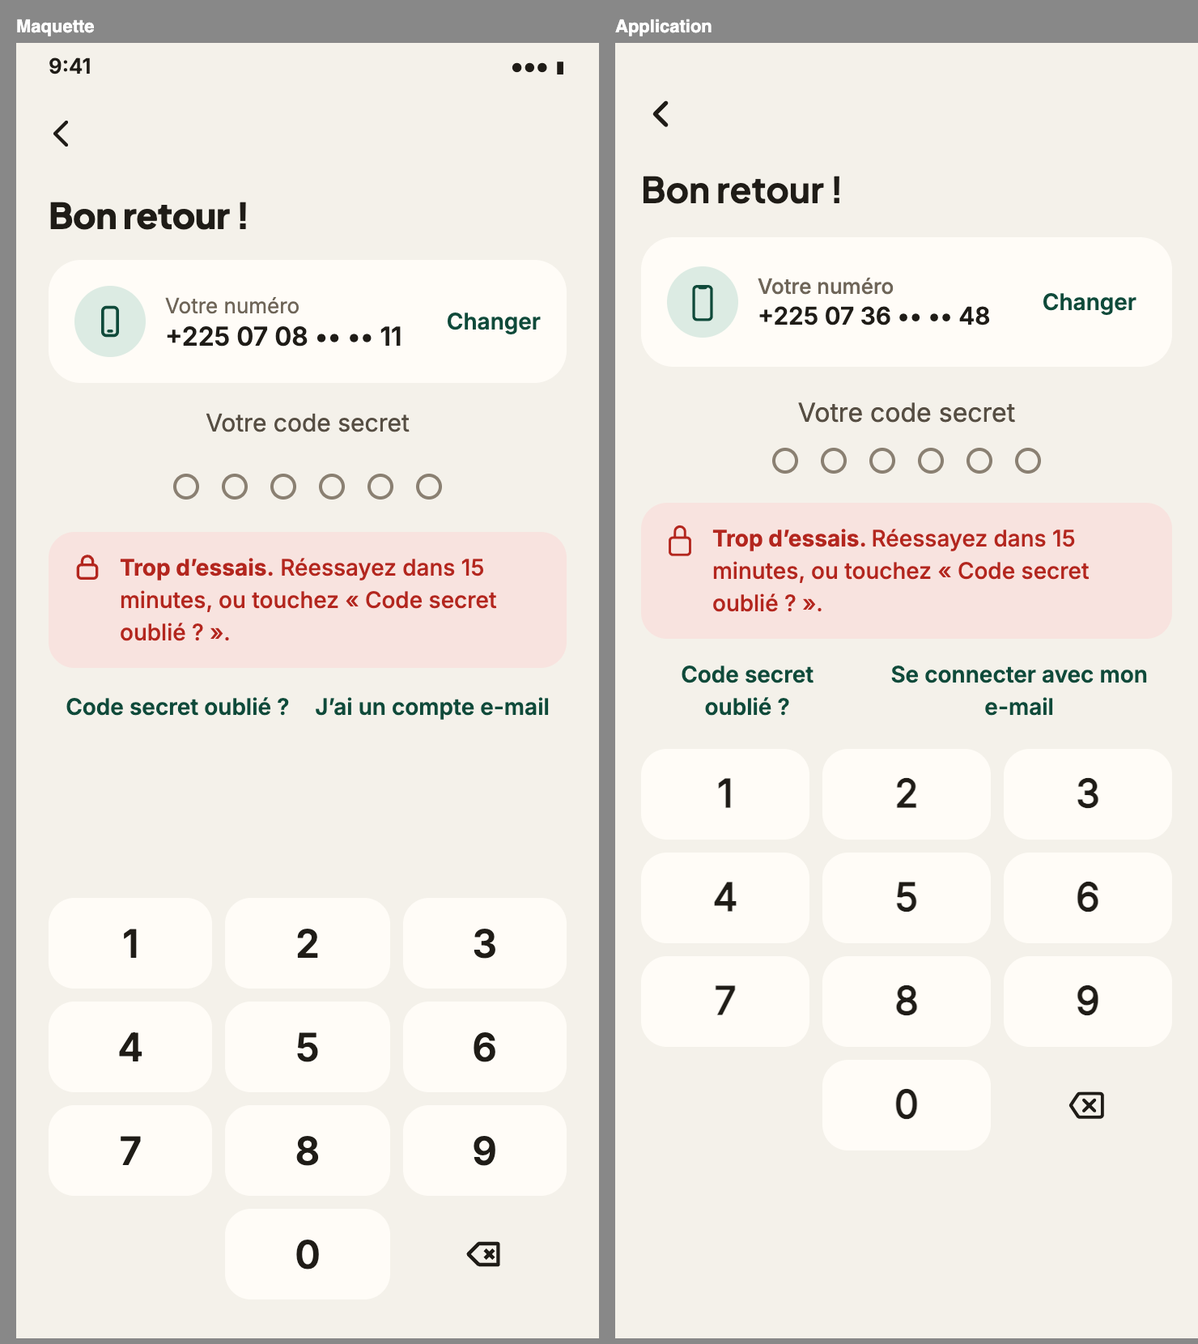
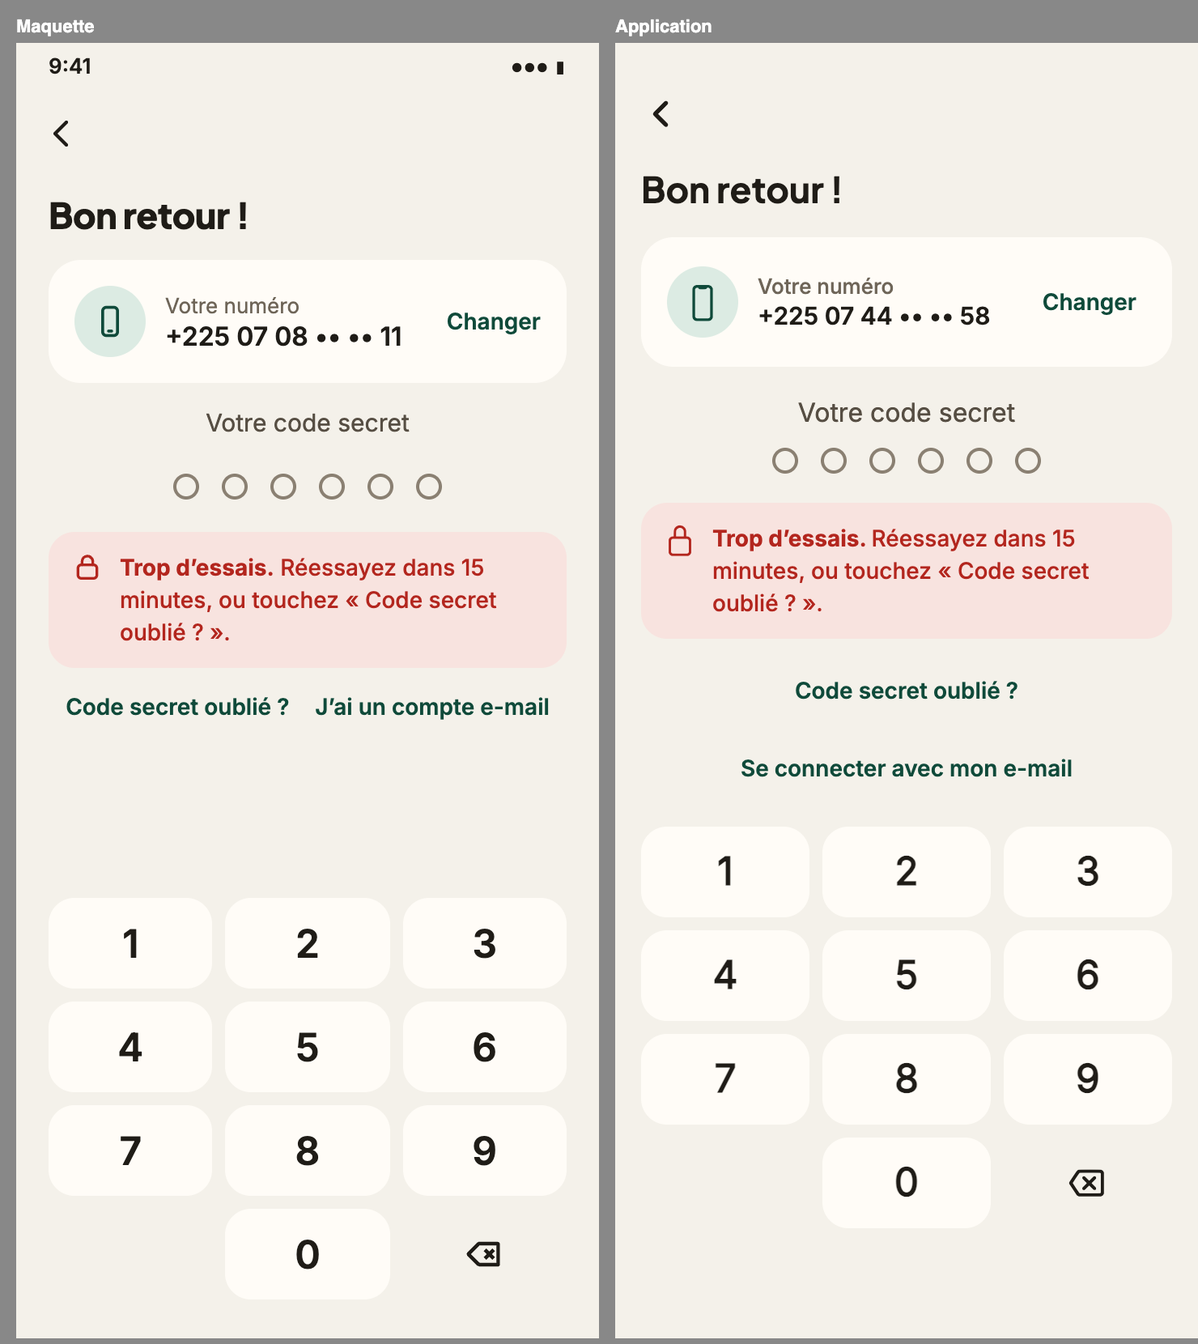
Connexion par téléphone — trois écarts tranchés par le fondateur (23/10)
- Bienvenue : « S’inscrire avec mon e-mail » en lien vert (nouvelle variante `link`
  du bouton, 48 dp) ; démonstration et « sur ce téléphone » inchangés.
- « Bon retour ! » / « Se connecter » : « Code secret oublié ? » et « Se connecter avec
  mon e-mail » l'un sous l'autre, centrés, chacun sur une ligne.
- Écran du numéro en mode connexion : « Se connecter », « Entrez le numéro de votre
  compte, puis votre code secret. », « Continuer » ; sans WhatsApp. 3 clés FR + EN,
  aucune supprimée.

diff --git a/dinerox/e2e/phone-auth.js b/dinerox/e2e/phone-auth.js
@@ -86,6 +86,12 @@ const lookup = async (body) => (await (await fetch(`${AUTH}/accounts:lookup`, { 
   const order = await Promise.all(['S’inscrire avec mon numéro', 'Se connecter', 'S’inscrire avec mon e-mail', 'Tester sans données (démonstration)'].map((n) => A.btn(n).first().boundingBox()));
   ok(order.every(Boolean) && order.every((b, i) => i === 0 || b.y > order[i - 1].y), 'panneau : « S’inscrire avec mon numéro », « Se connecter », « S’inscrire avec mon e-mail », puis démonstration');
   ok(!welcome.includes('Continuer avec mon numéro') && !welcome.includes('J’ai un compte e-mail'), 'anciens libellés absents de l’accueil');
+  // Écart 1 (fondateur, 23/10) : le lien e-mail est VERT (couleur de la marque), la démonstration garde son style d'origine.
+  const colorOf = (loc) => loc.evaluate((el) => getComputedStyle(el.querySelector('div[dir]') || el).color);
+  const bgOf = (loc) => loc.evaluate((el) => getComputedStyle(el).backgroundColor);
+  const [mailColor, demoColor, brand] = await Promise.all([colorOf(A.btn('S’inscrire avec mon e-mail').first()), colorOf(A.btn('Tester sans données (démonstration)').first()), bgOf(A.btn('S’inscrire avec mon numéro').first())]);
+  const mailH = (await A.btn('S’inscrire avec mon e-mail').first().boundingBox()).height;
+  ok(mailColor === brand && demoColor !== brand && mailH >= 48, `lien « S’inscrire avec mon e-mail » vert (${mailColor} = ${brand}), démonstration inchangée (${demoColor}), ${Math.round(mailH)} px`);
   await A.shot('01-accueil');
   await A.btn('S’inscrire avec mon numéro').click(); await A.see('Votre numéro de téléphone');
   ok(!!(await A.btn('Se connecter').first().boundingBox()) && !(await A.text()).includes('J’ai déjà un compte'), 'inscription : « J’ai déjà un compte » devient « Se connecter »');
@@ -125,11 +131,14 @@ const lookup = async (body) => (await (await fetch(`${AUTH}/accounts:lookup`, { 
   await A.signOut();
   await A.btn('Se connecter').click(); await A.see('Bon retour !');
   ok((await A.text()).includes(`+225 ${local1.slice(0, 2)} ${local1.slice(2, 4)} •• •• ${local1.slice(8)}`), 'numéro retenu, affiché masqué');
-  // Retouches (22/10) : numéro masqué sur UNE ligne ; « Code secret oublié ? » et « Se connecter avec mon e-mail » (§5ter) côte à côte.
+  // Retouche (22/10) : numéro masqué sur UNE ligne.
   const masked = await A.p.getByText(`+225 ${local1.slice(0, 2)}`, { exact: false }).filter({ visible: true }).first().boundingBox();
   ok(!!masked && masked.height <= 26, `numéro masqué sur une ligne (${masked ? Math.round(masked.height) : '?'} px)`);
+  // Écart 2 (fondateur, 23/10) : les deux liens l'un SOUS l'autre, centrés, chacun sur une ligne, 48 dp.
   const [forgotBox, mailBox] = await Promise.all([A.btn('Code secret oublié ?').first().boundingBox(), A.btn('Se connecter avec mon e-mail').first().boundingBox()]);
-  ok(!!forgotBox && !!mailBox && Math.abs(forgotBox.y - mailBox.y) < 4 && forgotBox.x < mailBox.x, 'liens « Code secret oublié ? » et « Se connecter avec mon e-mail » côte à côte');
+  const cx = (b) => b.x + b.width / 2;
+  ok(!!forgotBox && !!mailBox && mailBox.y >= forgotBox.y + forgotBox.height - 1 && Math.abs(cx(forgotBox) - cx(mailBox)) < 3 && Math.abs(cx(mailBox) - A.p.viewportSize().width / 2) < 3, 'liens « Code secret oublié ? » puis « Se connecter avec mon e-mail » l’un sous l’autre, centrés');
+  ok(!!forgotBox && !!mailBox && [forgotBox, mailBox].every((b) => b.height >= 48 && b.height < 56), `chaque lien sur une ligne, 48 dp (${forgotBox && Math.round(forgotBox.height)} et ${mailBox && Math.round(mailBox.height)} px)`);
   await A.shot('05-connexion');
   await A.keypad('000000');
   ok((await A.text()).includes('Code secret incorrect.'), 'mauvais code secret : refusé');
@@ -152,9 +161,12 @@ const lookup = async (body) => (await (await fetch(`${AUTH}/accounts:lookup`, { 
   await B.btn('Se connecter').click(); await B.see('Numéro de téléphone');
   // Numéro pas encore connu sur ce téléphone : titre « Se connecter », lien vers la connexion e-mail (§5ter).
   ok(!(await B.text()).includes('Bon retour') && !!(await B.p.getByRole('heading', { name: 'Se connecter', exact: true }).filter({ visible: true }).first().boundingBox()) && !!(await B.btn('Se connecter avec mon e-mail').first().boundingBox()), 'numéro inconnu sur ce téléphone : titre « Se connecter », lien « Se connecter avec mon e-mail »');
+  // Écart 3 (fondateur, 23/10) : écran du numéro en mode connexion — texte et bouton dédiés, sans WhatsApp.
+  const signinText = await B.text();
+  ok(signinText.includes('Entrez le numéro de votre compte, puis votre code secret.') && !signinText.includes('WhatsApp') && !!(await B.btn('Continuer').first().boundingBox()) && !signinText.includes('Continuer avec mon numéro'), 'connexion, écran du numéro : « Entrez le numéro de votre compte… », bouton « Continuer », aucune mention de WhatsApp');
   await B.shot('05b-connexion-numero');
   await B.p.getByLabel('Numéro de téléphone', { exact: true }).fill(local1);
-  await B.btn('Continuer avec mon numéro').click(); await B.see('Votre code secret');
+  await B.btn('Continuer').click(); await B.see('Votre code secret');
   ok(!(await B.text()).includes('Bon retour') && !!(await B.p.getByRole('heading', { name: 'Se connecter', exact: true }).filter({ visible: true }).first().boundingBox()), 'code secret, numéro inconnu sur ce téléphone : titre « Se connecter »');
   await B.keypad(SECRET); await B.see('Nouveau téléphone');
   await B.shot('07-nouveau-telephone');
@@ -225,7 +237,7 @@ const lookup = async (body) => (await (await fetch(`${AUTH}/accounts:lookup`, { 
   const D = await open();
   await D.go('/phone?start=signin');
   await D.p.getByLabel('Numéro de téléphone', { exact: true }).fill(local2);
-  await D.btn('Continuer avec mon numéro').click(); await D.see('Votre code secret');
+  await D.btn('Continuer').click(); await D.see('Votre code secret');
   await D.btn('Code secret oublié ?').click(); await D.see('Code secret oublié ?');
   await D.btn('Recevoir le code').first().click(); await D.see('Entrez le code reçu');
   const resetCode = await lastCode(e164(local2));

diff --git a/dinerox/tests/phone-screens.test.ts b/dinerox/tests/phone-screens.test.ts
@@ -97,14 +97,12 @@ describe('écrans et parcours', () => {
     expect(read('src/app/(auth)/phone.tsx')).toMatch(/<PhoneFlow /);
     expect(read('src/app/settings/add-phone.tsx')).toMatch(/<PhoneFlow start="link"/);
   });
-  it('retouche (22/10) : « Bon retour ! » — numéro masqué sur UNE ligne, « Code secret oublié ? » et le lien e-mail côte à côte', () => {
+  it('retouche (22/10) : « Bon retour ! » — numéro masqué sur UNE ligne', () => {
     const f = read('src/features/phoneAuth/PhoneFlow.tsx');
     const s = f.slice(f.indexOf('function SignInStep'), f.indexOf('// ─── 6 · 7'));
     // Espaces insécables : le numéro ne se coupe jamais entre deux groupes.
     expect(s).toMatch(/oneLine\(maskPhone\(e164\)\)/);
     expect(f).toMatch(/const NBSP = String\.fromCharCode\(160\);\s*const oneLine = \(s: string\) => s\.replace\(\/ \/g, NBSP\)/);
-    expect(s).toMatch(/flexWrap: 'nowrap'/);
-    expect(s).not.toMatch(/flexWrap: 'wrap'/);
   });
   it('les écrans de saisie sont dans le contrôle des formulaires (règle 15)', () => {
     const audit = read('e2e/forms-audit.js');
@@ -152,13 +150,61 @@ describe('bienvenue d’origine rétablie, libellés clairs (fondateur, 23/10, D
     const num = f.slice(f.indexOf('function NumberStep'), f.indexOf('// ─── 3 · 9'));
     expect(num).toMatch(/label=\{t\('phone\.welcome\.signin'\)\} onPress=\{onSignIn\}/);
     // Connexion sans numéro connu : titre « Se connecter » et lien vers la connexion e-mail.
-    expect(num).toMatch(/mode === 'signin' \? t\('phone\.welcome\.signin'\) : t\('phone\.number\.title'\)/);
+    // (Le titre a ensuite sa propre clé, `phone.number.signinTitle` : voir « écarts tranchés », 3.)
+    expect(num).toMatch(/signin \? t\('phone\.number\.signinTitle'\) : t\('phone\.number\.title'\)/);
     expect(num).toMatch(/label=\{t\('phone\.signin\.withEmail'\)\} onPress=\{\(\) => router\.push\('\/sign-in'\)\}/);
     const s = f.slice(f.indexOf('function SignInStep'), f.indexOf('// ─── 6 · 7'));
     expect(s).toMatch(/known \? t\('phone\.signin\.title'\) : t\('phone\.welcome\.signin'\)/);
     expect(s).toMatch(/label=\{t\('phone\.signin\.withEmail'\)\} onPress=\{\(\) => router\.push\('\/sign-in'\)\}/);
     // « connu » = le numéro affiché est celui retenu sur CE téléphone.
     expect(f).toMatch(/known=\{!!remembered && remembered === e164\}/);
+  });
+});
+
+describe('écarts tranchés par le fondateur (23/10, après §5ter)', () => {
+  const OPEN = '{isFirebaseConfigured ? (';
+  const CLOSE = ') : (';
+  it('1. bienvenue : « S’inscrire avec mon e-mail » en lien VERT (variante `link`), démonstration et « sur ce téléphone » inchangés', () => {
+    const w = read('src/app/(auth)/welcome.tsx');
+    const panel = w.slice(w.indexOf(OPEN), w.indexOf(CLOSE));
+    expect(panel).toMatch(/<Button variant="link" label=\{t\('phone\.welcome\.signupEmail'\)\}/);
+    expect(w).toMatch(/<Button small variant="ghost" icon="flask-outline" label=\{t\('fp\.demo'\)\}/);
+    expect(w).toMatch(/<Button small variant="ghost" icon="phone-portrait-outline" label=\{t\('fp\.localOnly'\)\}/);
+    // La variante `link` : fond transparent, texte couleur de la marque, 48 dp, dans les DEUX rendus du bouton.
+    const b = read('src/components/ui/Button.tsx');
+    expect(b).toMatch(/\| 'link'/);
+    expect(b).toMatch(/link: \{ bg: 'transparent', pressed: colors\.surfaceAlt, fg: colors\.primary \}/);
+    expect(b).toMatch(/link: 'transparent'/);
+    expect(b).toMatch(/link: colors\.primary/);
+    expect(b).toMatch(/minHeight: small && variant !== 'link' \? 40 : MIN_TOUCH/);
+  });
+  it('2. « Bon retour ! » / « Se connecter » : les deux liens l’un SOUS l’autre, centrés', () => {
+    const f = read('src/features/phoneAuth/PhoneFlow.tsx');
+    const s = f.slice(f.indexOf('function SignInStep'), f.indexOf('// ─── 6 · 7'));
+    expect(s).toMatch(/<View style=\{\{ alignItems: 'center' \}\}>\s*<TextLink label=\{t\('phone\.signin\.forgot'\)\} onPress=\{onForgot\} \/>\s*<TextLink label=\{t\('phone\.signin\.withEmail'\)\}/);
+    expect(s).not.toMatch(/flexDirection: 'row', flexWrap/);
+    // 48 dp de haut pour chaque lien.
+    expect(f).toMatch(/function TextLink[\s\S]{0,400}minHeight: 48/);
+  });
+  it('3. écran du numéro en mode CONNEXION : titre, texte et bouton dédiés, sans WhatsApp ; l’inscription ne change pas', () => {
+    const NEW: Record<string, [string, string]> = {
+      'phone.number.signinTitle': ['Se connecter', 'Sign in'],
+      'phone.number.signinBody': ['Entrez le numéro de votre compte, puis votre code secret.', 'Enter your account number, then your secret code.'],
+      'phone.number.signinCta': ['Continuer', 'Continue'],
+    };
+    for (const [k, [fr_, en_]] of Object.entries(NEW)) {
+      expect(F[k], k).toBe(fr_);
+      expect(E[k], k).toBe(en_);
+      expect(F[k] + E[k], k).not.toMatch(/WhatsApp/);
+    }
+    const f = read('src/features/phoneAuth/PhoneFlow.tsx');
+    const num = f.slice(f.indexOf('function NumberStep'), f.indexOf('// ─── 3 · 9'));
+    expect(num).toMatch(/const signin = mode === 'signin';/);
+    expect(num).toMatch(/const label = signin \? t\('phone\.number\.signinCta'\) : t\('phone\.number\.send'\);/);
+    expect(num).toMatch(/<Title text=\{signin \? t\('phone\.number\.signinTitle'\) : t\('phone\.number\.title'\)\} \/>/);
+    expect(num).toMatch(/\{signin \? t\('phone\.number\.signinBody'\) : t\('phone\.number\.body'\)\}/);
+    // Aucune clé supprimée : l'ancien bouton de connexion garde sa clé.
+    for (const k of ['phone.welcome.continue', 'phone.number.body', 'phone.welcome.signin']) expect(F[k], k).toBeTruthy();
   });
 });
 

diff --git a/dinerox/src/components/ui/Button.tsx b/dinerox/src/components/ui/Button.tsx
@@ -9,8 +9,9 @@ import { Icon } from './Icon';
  * `tertiary` / `destructive` / `outline` : variantes v2. Écrans non migrés : `ghost`, `danger`, `success`.
  * En v2, `ghost` = `tertiary`, `danger` = `destructive` et `success` = `primary`.
  * `outline` : bouton blanc (surface) avec contour, texte foncé (bienvenue, « J'ai un compte e-mail »).
+ * `link` : lien texte couleur de la marque, sans fond, 48 dp même en `small` (bienvenue, « S'inscrire avec mon e-mail »).
  */
-export type ButtonVariant = 'primary' | 'secondary' | 'ghost' | 'danger' | 'success' | 'tertiary' | 'destructive' | 'outline';
+export type ButtonVariant = 'primary' | 'secondary' | 'ghost' | 'danger' | 'success' | 'tertiary' | 'destructive' | 'outline' | 'link';
 
 export interface ButtonProps {
   label: string;
@@ -56,6 +57,7 @@ function ButtonV2({ label, onPress, variant = 'primary', icon, loading, disabled
     tertiary: { bg: 'transparent', pressed: colors.surfaceAlt, fg: colors.primary },
     destructive: { bg: colors.dangerBg, pressed: colors.surfaceAlt, fg: colors.danger },
     outline: { bg: colors.surface, pressed: colors.surfaceAlt, fg: colors.text },
+    link: { bg: 'transparent', pressed: colors.surfaceAlt, fg: colors.primary },
   }[kind];
   const fg = disabled ? colors.onDisabled : look.fg;
   return (
@@ -74,7 +76,7 @@ function ButtonV2({ label, onPress, variant = 'primary', icon, loading, disabled
       style={({ pressed }) => [
         {
           minHeight: MIN_TOUCH,
-          paddingHorizontal: small || kind === 'tertiary' ? 12 : 18,
+          paddingHorizontal: small || kind === 'tertiary' || kind === 'link' ? 12 : 18,
           paddingVertical: 8,
           borderRadius: 12,
           borderWidth: kind === 'outline' ? 1.5 : 0,
@@ -107,6 +109,7 @@ function LegacyButton({ label, onPress, variant = 'primary', icon, loading, disa
     destructive: colors.danger,
     success: colors.success,
     outline: colors.surface,
+    link: 'transparent',
   };
   const fg: Record<ButtonVariant, string> = {
     primary: colors.onPrimary,
@@ -117,6 +120,7 @@ function LegacyButton({ label, onPress, variant = 'primary', icon, loading, disa
     destructive: colors.onInverse,
     success: colors.onInverse,
     outline: colors.text,
+    link: colors.primary,
   };
   const inactive = disabled || loading;
   return (
@@ -135,7 +139,7 @@ function LegacyButton({ label, onPress, variant = 'primary', icon, loading, disa
       }}
       style={({ pressed }) => [
         {
-          minHeight: small ? 40 : MIN_TOUCH,
+          minHeight: small && variant !== 'link' ? 40 : MIN_TOUCH,
           paddingHorizontal: small ? 12 : 18,
           borderRadius: radius.pill,
           backgroundColor: bg[variant],

diff --git a/dinerox/src/features/phoneAuth/PhoneFlow.tsx b/dinerox/src/features/phoneAuth/PhoneFlow.tsx
@@ -379,7 +379,9 @@ function NumberStep({ t, back, error, busy, mode, dial, setDial, local, setLocal
   const { lang } = useI18n();
   const [choose, setChoose] = useState(false);
   const flag = COUNTRY_PROFILES.find((p) => DIAL_CODES[p.code] === dial)?.flag ?? '🌍';
-  const label = mode === 'signin' ? t('phone.welcome.continue') : t('phone.number.send');
+  // Connexion (fondateur, 23/10) : titre, texte et bouton propres, sans WhatsApp ; l'inscription ne change pas.
+  const signin = mode === 'signin';
+  const label = signin ? t('phone.number.signinCta') : t('phone.number.send');
   return (
     <Screen syncBanner={false} footer={<Button full label={label} loading={busy} disabled={!local.trim()} onPress={onSubmit} />}>
       <Top back={back} t={t} title={mode === 'link' ? t('phone.link.title') : undefined} />
@@ -392,9 +394,9 @@ function NumberStep({ t, back, error, busy, mode, dial, setDial, local, setLocal
         </Card>
       ) : (
         <>
-          <Title text={mode === 'signin' ? t('phone.welcome.signin') : t('phone.number.title')} />
+          <Title text={signin ? t('phone.number.signinTitle') : t('phone.number.title')} />
           <Text tone="muted" style={{ marginBottom: 14 }}>
-            {t('phone.number.body')}
+            {signin ? t('phone.number.signinBody') : t('phone.number.body')}
           </Text>
         </>
       )}
@@ -564,8 +566,8 @@ function SignInStep({ t, back, error, busy, e164, known, digits, onDigits, onCha
       </Text>
       <Dots n={digits.length} />
       <ErrorNotice error={error} t={t} />
-      {/* Maquette 5 : les deux liens CÔTE À CÔTE. */}
-      <View style={{ flexDirection: 'row', flexWrap: 'nowrap', justifyContent: 'center', gap: 8 }}>
+      {/* Les deux liens l'un SOUS l'autre, centrés, chacun sur une ligne (fondateur, 23/10). */}
+      <View style={{ alignItems: 'center' }}>
         <TextLink label={t('phone.signin.forgot')} onPress={onForgot} />
         <TextLink label={t('phone.signin.withEmail')} onPress={() => router.push('/sign-in')} />
       </View>

diff --git a/dinerox/src/app/(auth)/welcome.tsx b/dinerox/src/app/(auth)/welcome.tsx
@@ -76,7 +76,8 @@ export default function Welcome() {
               {/* Libellés clairs (fondateur, 23/10, DECISIONS.md §5ter) : s'inscrire OU se connecter, par numéro ; l'e-mail reste possible. */}
               <Button full label={t('phone.welcome.signupNumber')} onPress={() => router.push('/phone')} />
               <Button full variant="secondary" label={t('phone.welcome.signin')} onPress={() => router.push('/phone?start=signin')} />
-              <Button small variant="ghost" label={t('phone.welcome.signupEmail')} onPress={() => router.push('/sign-up')} style={{ alignSelf: 'center', maxWidth: '100%' }} />
+              {/* Lien VERT (fondateur, 23/10) : on voit qu'il se touche. */}
+              <Button variant="link" label={t('phone.welcome.signupEmail')} onPress={() => router.push('/sign-up')} style={{ alignSelf: 'center', maxWidth: '100%' }} />
             </>
           ) : (
             <Button full label={t('fp.localOnly')} loading={busy === 'local'} onPress={() => start('local')} />

diff --git a/dinerox/src/i18n/fr.ts b/dinerox/src/i18n/fr.ts
@@ -2352,6 +2352,10 @@ export const fr = {
   'phone.welcome.signin': 'Se connecter',
   'phone.welcome.signupEmail': 'S’inscrire avec mon e-mail',
   'phone.signin.withEmail': 'Se connecter avec mon e-mail',
+  // Écran du numéro en mode connexion (fondateur, 23/10) : sans WhatsApp.
+  'phone.number.signinTitle': 'Se connecter',
+  'phone.number.signinBody': 'Entrez le numéro de votre compte, puis votre code secret.',
+  'phone.number.signinCta': 'Continuer',
   'phone.number.title': 'Votre numéro de téléphone',
   'phone.number.body': 'Nous vous envoyons un code sur WhatsApp pour vérifier que ce numéro est bien à vous.',
   'phone.number.label': 'Numéro de téléphone',

diff --git a/dinerox/src/i18n/en.ts b/dinerox/src/i18n/en.ts
@@ -2312,6 +2312,10 @@ export const en: Record<TKey, string> = {
   'phone.welcome.signin': 'Sign in',
   'phone.welcome.signupEmail': 'Sign up with my email',
   'phone.signin.withEmail': 'Sign in with my email',
+  // Number screen in sign-in mode (founder, 23/10): no WhatsApp.
+  'phone.number.signinTitle': 'Sign in',
+  'phone.number.signinBody': 'Enter your account number, then your secret code.',
+  'phone.number.signinCta': 'Continue',
   'phone.number.title': 'Your phone number',
   'phone.number.body': 'We’ll send you a code on WhatsApp to check this number is yours.',
   'phone.number.label': 'Phone number',

diff --git a/dinerox/e2e/captures-phone.js b/dinerox/e2e/captures-phone.js
@@ -102,7 +102,7 @@ async function run(theme) {
   const B = await open();
   await B.go('/phone?start=signin');
   await B.p.getByLabel('Numéro de téléphone', { exact: true }).fill(local);
-  await B.btn('Continuer avec mon numéro').click(); await B.see('Votre code secret');
+  await B.btn('Continuer').click(); await B.see('Votre code secret');
   await B.keys(SECRET); await B.see('Nouveau téléphone'); await B.shot('07-nouveau-telephone');
   await B.ctx.close();
   }

diff --git a/dinerox/docs/connexion-telephone/PREUVES.md b/dinerox/docs/connexion-telephone/PREUVES.md
@@ -125,11 +125,21 @@ fondateur, même empreinte git). Preuve : `preuves/01-bienvenue-v2-clair.png` (r
 Parcours e2e adaptés aux nouveaux libellés : `phone-auth.js`, `multi-users.js`, `suspended.js`,
 `install-origin.js`, `forms-audit.js`, `captures-phone.js`.
 
-Écarts restants avec la maquette, signalés sans les corriger (hors périmètre de la décision) :
-les liens discrets du panneau (e-mail, démonstration, « sur ce téléphone ») gardent le texte foncé
-de design-pro, la maquette les montre en vert ; sur « Bon retour ! », « Se connecter avec mon
-e-mail », plus long, passe sur deux lignes ; en mode connexion, l'écran du numéro garde le texte
-« Nous vous envoyons un code sur WhatsApp… » (inchangé, peu exact pour une connexion).
+Trois écarts restaient avec la maquette ; le fondateur les a tranchés (§7 ter).
+
+## 7 ter. Les trois écarts tranchés (fondateur, 23/10)
+
+| Décision | Où | Preuve (rouge d'abord, puis vert) |
+|---|---|---|
+| 1. « S’inscrire avec mon e-mail » en lien VERT (couleur de la marque), 48 dp ; « Tester sans données » et « Utiliser sur ce téléphone uniquement » gardent le style d'origine | nouvelle variante `link` du bouton (`components/ui/Button.tsx`, les deux rendus) ; `welcome.tsx` (bloc des boutons seulement, le reste toujours identique à design-pro) | `tests/phone-screens.test.ts` « écarts tranchés › 1 » ; e2e « lien vert (couleur = fond du bouton principal), démonstration inchangée, 48 px » ; `preuves/01-bienvenue-v2-clair.png` |
+| 2. « Code secret oublié ? » et « Se connecter avec mon e-mail » l'un SOUS l'autre, centrés, chacun sur une ligne, 48 dp | `PhoneFlow.tsx` › `SignInStep` (« Bon retour ! » et « Se connecter ») | test « › 2 » ; e2e « l’un sous l’autre, centrés », « chaque lien sur une ligne, 48 dp (48 et 48 px) » ; `preuves/05-connexion-clair.png`, `preuves/10-erreur-trop-essais-clair.png` |
+| 3. Écran du numéro en mode CONNEXION seulement : titre « Se connecter », texte « Entrez le numéro de votre compte, puis votre code secret. », bouton « Continuer » ; aucune mention de WhatsApp ; l'inscription ne change pas | `PhoneFlow.tsx` › `NumberStep` ; clés `phone.number.signinTitle`, `phone.number.signinBody`, `phone.number.signinCta` (FR + EN), aucune supprimée | test « › 3 » ; e2e « connexion, écran du numéro : … bouton Continuer, aucune mention de WhatsApp » |
+
+Vérifications : `npm run check` vert (lint à zéro, 120 fichiers, 1 862 tests) ; `phone-auth`
+39 / 39 ; `forms-audit` 140 / 140 ; `multi-users`, `suspended`, `install-origin`, `layout-audit`
+verts ; preuves refaites par `e2e/captures-phone.js` (toutes régénérées : seules 01, 05 et 10
+changent sur le fond, les autres ne diffèrent que par le numéro tiré au hasard). Parcours e2e
+adaptés : `phone-auth.js`, `captures-phone.js` (« Continuer avec mon numéro » → « Continuer »).
 
 ## 7. Branche design-pro (fusionnée ici)
 
